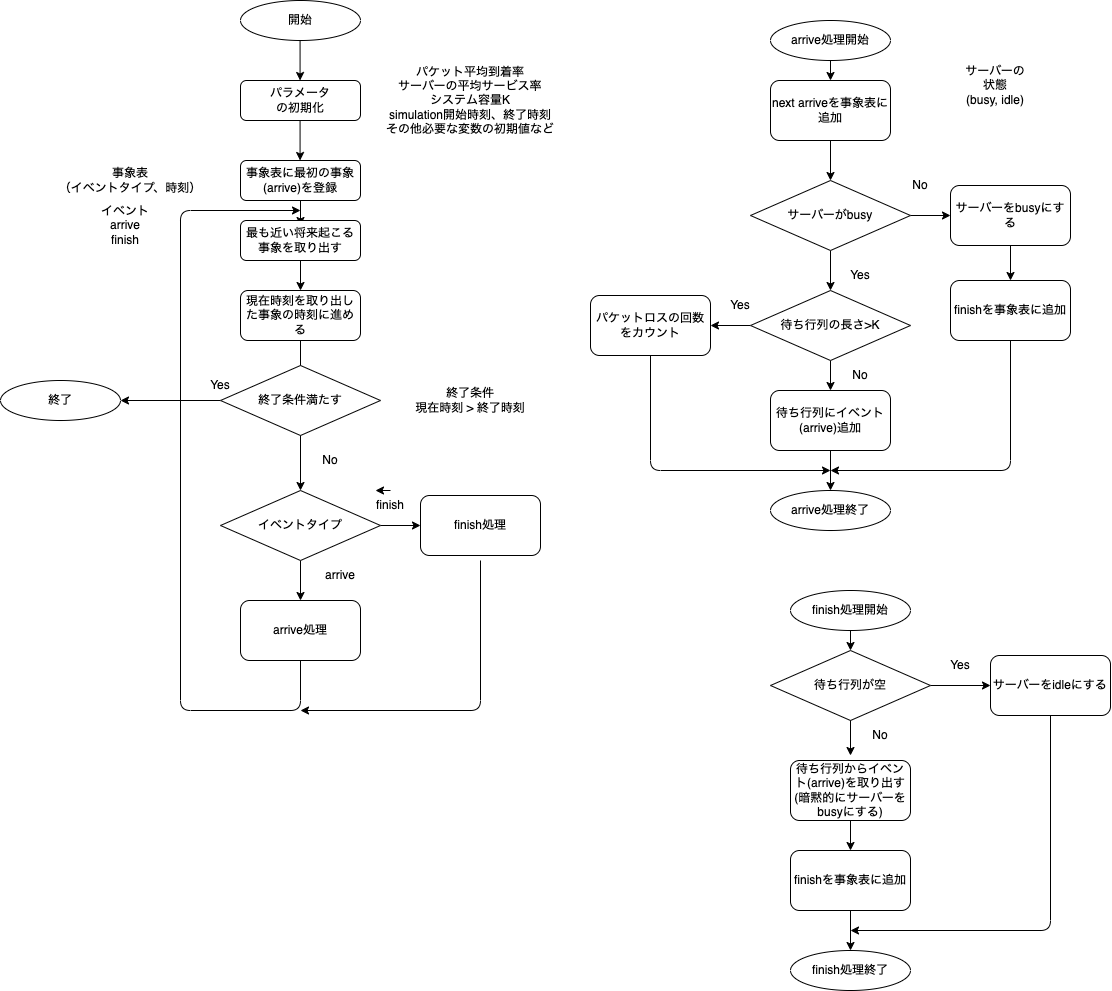
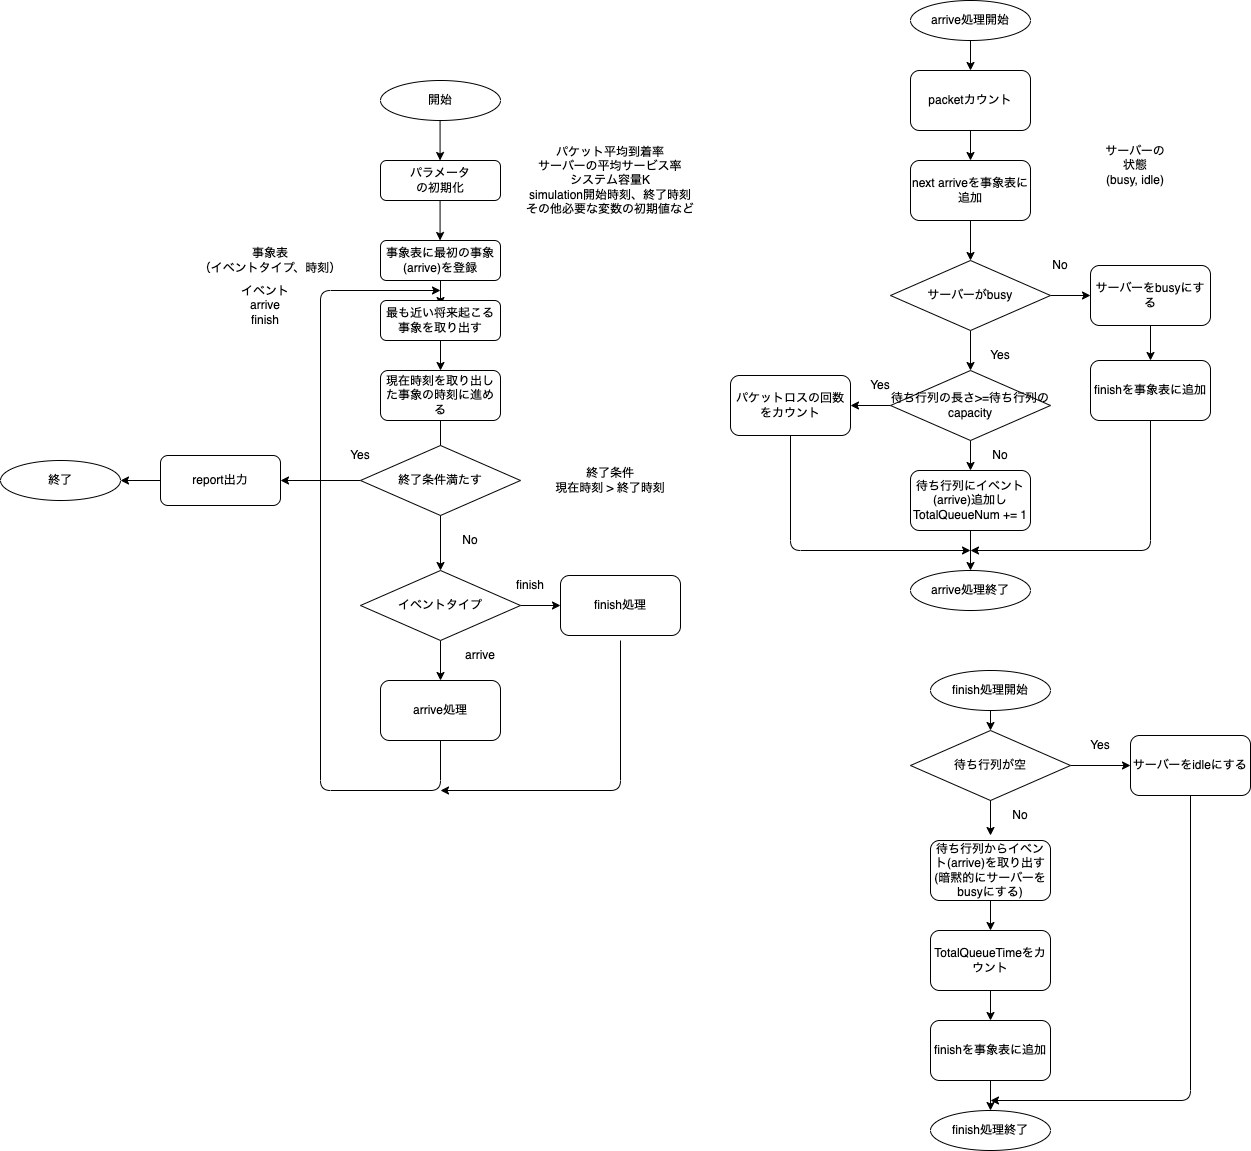
add output

diff --git a/src/simulate/simulate.go b/src/simulate/simulate.go
@@ -12,14 +12,13 @@ import (
 
 func Simulate(lambda, myu float64, k int, startTime, endTime float64) {
 	rand.Seed(time.Now().UnixNano())
-
 	// ----- BEGIN initialization -----
 	simulationConf := model.NewSimulationConfig(lambda, myu, k, startTime, endTime)
 	// register the first event on table.
 	eventsTable := new(model.EventsTable)
-	firstEvent := model.NewEvent(model.ArrivePacket, 0.0)
+	firstEvent := model.NewEvent(model.ArrivePacket, startTime)
 	eventsTable.Events = append(eventsTable.Events, firstEvent)
-	server := model.NewServer(1)
+	server := model.NewServer(1) // In this time, set 1.
 	queue := model.NewQueue(simulationConf.K - server.Capacity)
 	counter := model.NewCounter()
 	// ----- END initialization -----
@@ -35,7 +34,7 @@ func Simulate(lambda, myu float64, k int, startTime, endTime float64) {
 			return eventsTable.Events[i].StartTime < eventsTable.Events[j].StartTime
 		})
 		currentEvent = eventsTable.Peek()
-
+		// fmt.Println(currentEvent.StartTime)
 		if currentEvent.StartTime > simulationConf.EndTime {
 			break
 		}
@@ -50,16 +49,20 @@ func Simulate(lambda, myu float64, k int, startTime, endTime float64) {
 	// ----- END simulation -----
 
 	// ----- BEGIN report -----
+	fmt.Println("----- Input Params -----")
+	simulationConf.PrintConfInfo()
 	fmt.Println("----- Report -----")
 	tqt := counter.TotalQueueTime
-	l := tqt / currentEvent.StartTime
-	fmt.Println("average packets numbers in queue")
-	fmt.Println(l)
+	simulateTime := currentEvent.StartTime - simulationConf.StartTime
+	l := tqt / simulateTime
+	// fmt.Println("totalQueueTime", tqt)
+	fmt.Println("average packets numbers in queue:", l)
+
 	w := tqt / float64(counter.TotalQueueNum)
-	fmt.Println("average delay of packets in queue")
-	fmt.Println(w)
+	fmt.Println("average delay of packets in queue:", w)
+
 	plr := float64(counter.PacketLossNum) / float64(counter.PacketNum)
-	fmt.Println("packets loss rate")
-	fmt.Println(plr)
+	// fmt.Println("packets", counter.PacketNum)
+	fmt.Println("packets loss rate:", plr)
 	// ----- END report -----
 }

diff --git a/src/simulate/handler/finish_handler.go b/src/simulate/handler/finish_handler.go
@@ -13,7 +13,10 @@ func FinishHandler(currentEvent *model.Event, table *model.EventsTable, queue *m
 
 	// サーバーの状態はそのままにして後続の処理をする
 	event := queue.Peek()
-	// calculate total queue time
-	counter.TotalQueueTime += currentEvent.StartTime - event.StartTime
+	if event != nil {
+		// calculate total queue time
+		counter.TotalQueueTime += currentEvent.StartTime - event.StartTime
+	}
+	// fmt.Println("counter.TotalQueueTime",counter.TotalQueueTime)
 	table.AddEvent(model.FinishService, currentEvent.StartTime+utils.ExpRand(sConf.Lambda))
 }

diff --git a/src/simulate/model/config.go b/src/simulate/model/config.go
@@ -1,5 +1,7 @@
 package model
 
+import "fmt"
+
 // The input parameters for the simulation.
 type SimulationConfig struct {
 	Lambda    float64 // Average arrival rate of a packet.
@@ -18,4 +20,12 @@ func NewSimulationConfig(lambda, myu float64, k int, startTime, endTime float64)
 	}
 	conf.EndTime = conf.StartTime + endTime
 	return conf
+}
+
+func (s *SimulationConfig) PrintConfInfo() {
+	fmt.Println("lambda", s.Lambda)
+	fmt.Println("myu", s.Myu)
+	fmt.Println("K", s.K)
+	fmt.Println("start time", s.StartTime)
+	fmt.Println("end time", s.EndTime)
 }

diff --git a/src/simulate/utils/rand_num.go b/src/simulate/utils/rand_num.go
@@ -1,8 +1,12 @@
 package utils
 
-import "math/rand"
+import (
+	"math/rand"
+)
 
 // https://blog.monochromegane.com/blog/2019/10/11/random_number_gen_using_go/
 func ExpRand(lambda float64) float64 {
-	return rand.ExpFloat64() / lambda
+	r := rand.ExpFloat64() / lambda
+	// r := -math.Log(float64(1.0 - rand.Float64())) / lambda
+	return r
 }

diff --git a/README.md b/README.md
@@ -18,7 +18,10 @@
 * http://www.it-shikaku.jp/top30.php?hidari=01-02-06.php&migi=km01-02.php
 * http://www.bunkyo.ac.jp/~nemoto/lecture/seisan/2001/queue1.pdf
 * https://www.cis.nagasaki-u.ac.jp/labs/oguri/CompSimExm.pdf
+* https://www.google.com/search?q=mm1k+%E5%BE%85%E3%81%A1%E8%A1%8C%E5%88%97+%E7%90%86%E8%AB%96%E5%80%A4&rlz=1C5CHFA_enJP1015JP1015&sxsrf=ALiCzsYUSgnIPu8j3TEUHsLM-cMcaxGyCA%3A1666036872497&ei=iLRNY8v5HYmnoATz0onwCA&ved=0ahUKEwjL3d7_huj6AhWJE4gKHXNpAo4Q4dUDCA8&uact=5&oq=mm1k+%E5%BE%85%E3%81%A1%E8%A1%8C%E5%88%97+%E7%90%86%E8%AB%96%E5%80%A4&gs_lcp=Cgdnd3Mtd2l6EAMyBwgAEB4QogQyBQgAEKIEMgUIABCiBDIFCAAQogQyBQgAEKIEOgQIIxAnOgUIIRCgAToECCEQFUoECE0YAUoECEEYAEoECEYYAFAAWK4jYMQnaABwAXgAgAGyAYgB-wqSAQMxLjmYAQCgAQHAAQE&sclient=gws-wiz
 * CLI
   * https://zenn.dev/yotto428/scraps/85385949f1304b
   * https://zenn.dev/tama8021/articles/22_0627_go_cobra_cli#go%E3%81%A7cli%E3%81%A3%E3%81%A6%E3%81%A9%E3%82%93%E3%81%AA%E3%81%97%E3%81%A6%E4%BD%9C%E3%82%8B%E3%81%AE%EF%BC%9F%EF%BC%9F
   * https://qiita.com/minamijoyo/items/cfd22e9e6d3581c5d81f
+  * https://text.baldanders.info/golang/using-and-testing-cobra/
+
